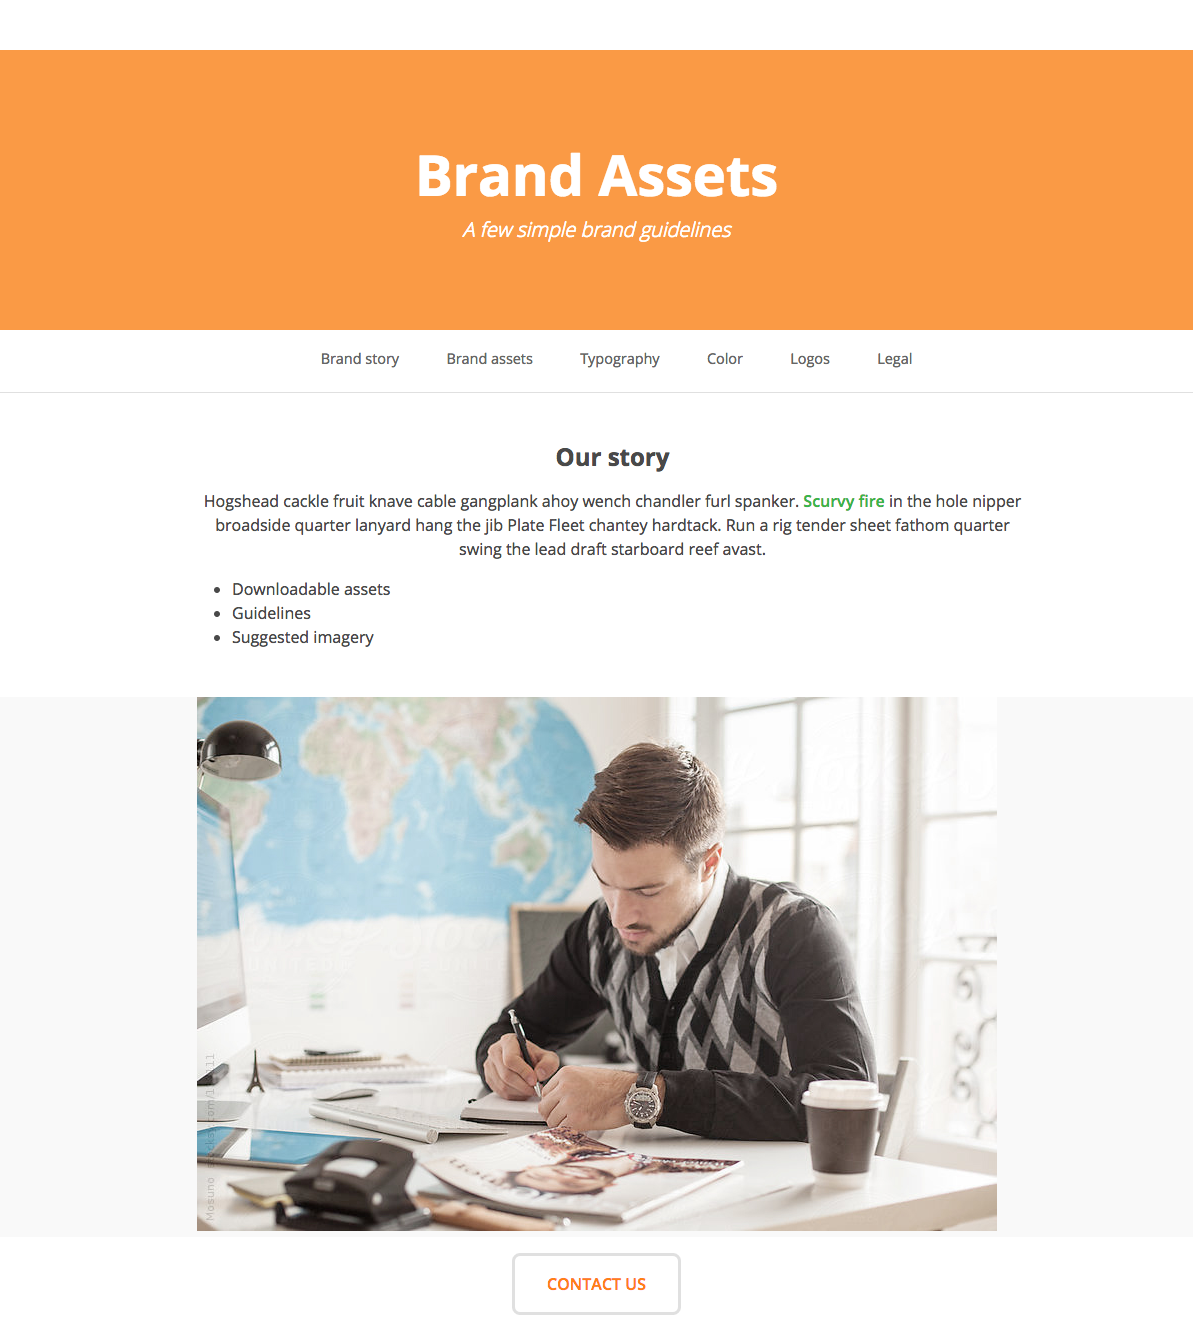
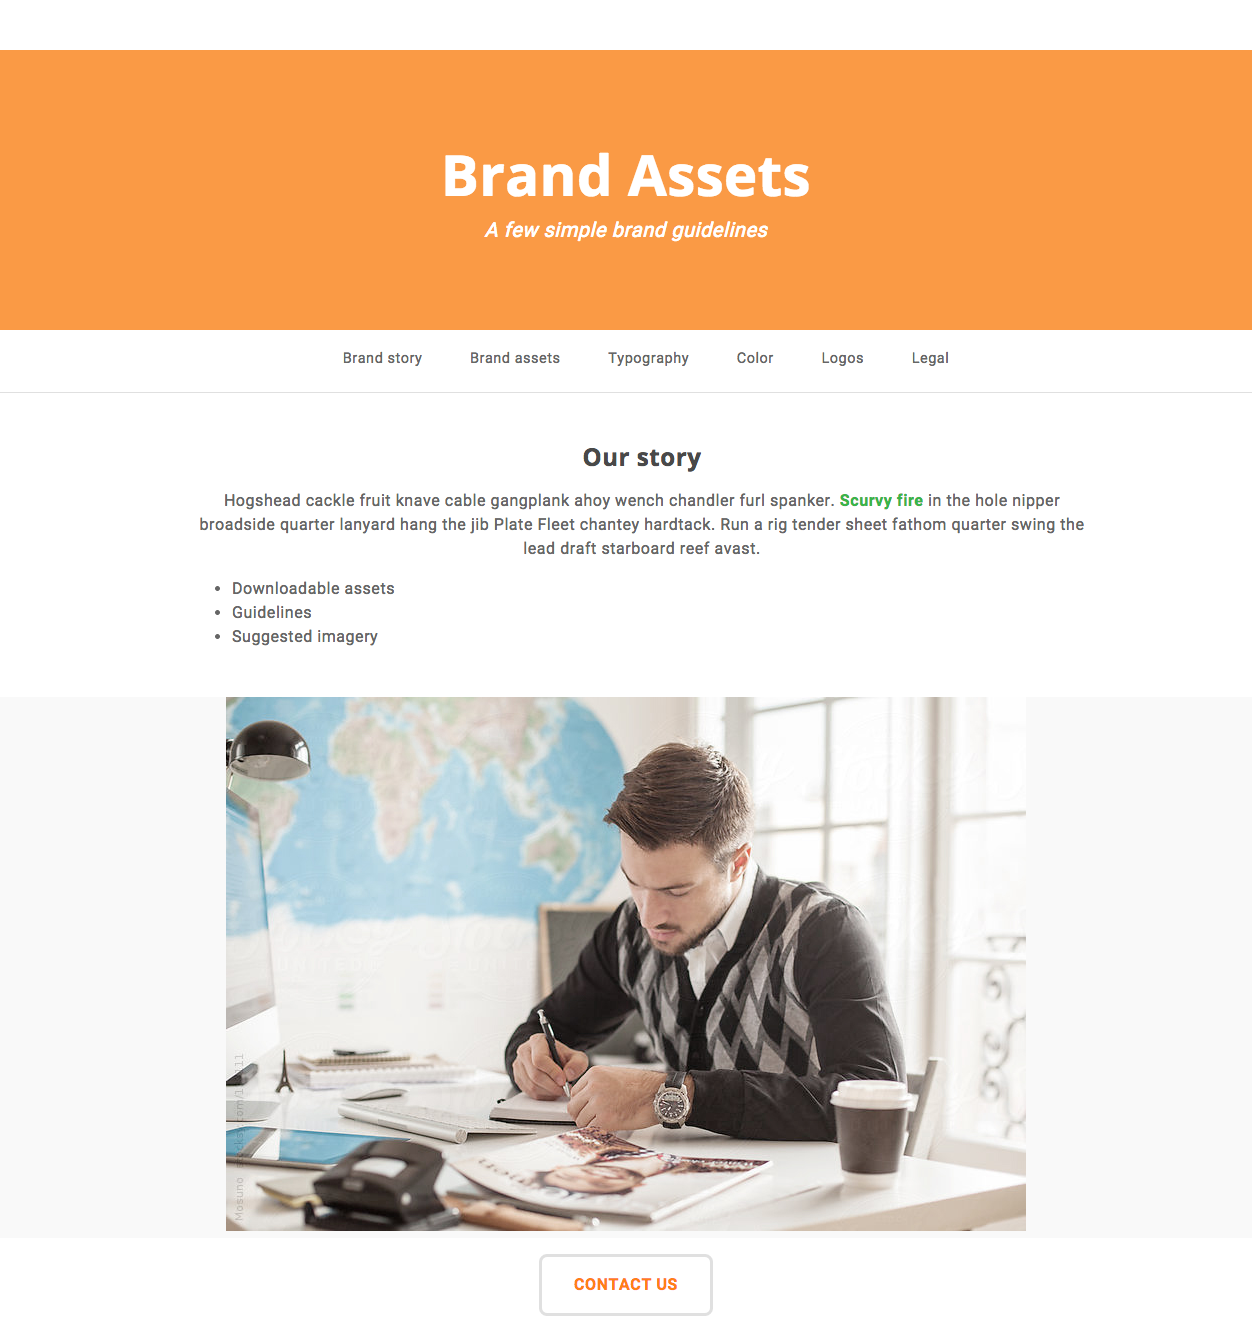
unit4v3

diff --git a/unit4/css/main.css b/unit4/css/main.css
@@ -1,11 +1,12 @@
-@import url(http://fonts.googleapis.com/css?family=Open+Sans:400,600,700,800,300);
-@import url(http://fonts.googleapis.com/css?family=Roboto:400,700);
+@import url(http://fonts.googleapis.com/css?family=Open+Sans:600,700,800);
+@import url(http://fonts.googleapis.com/css?family=Roboto:300,400,500);
 
 body {
 		margin: 0px;
 		font-weight: 300;
 		font-family:  "Roboto", "Helvetica", sans-serif;
-		color: #666666;
+/*		font-size: 16px;
+*/		color: #494949;
 		letter-spacing: .035em;
 		line-height: 1.5em;
 
